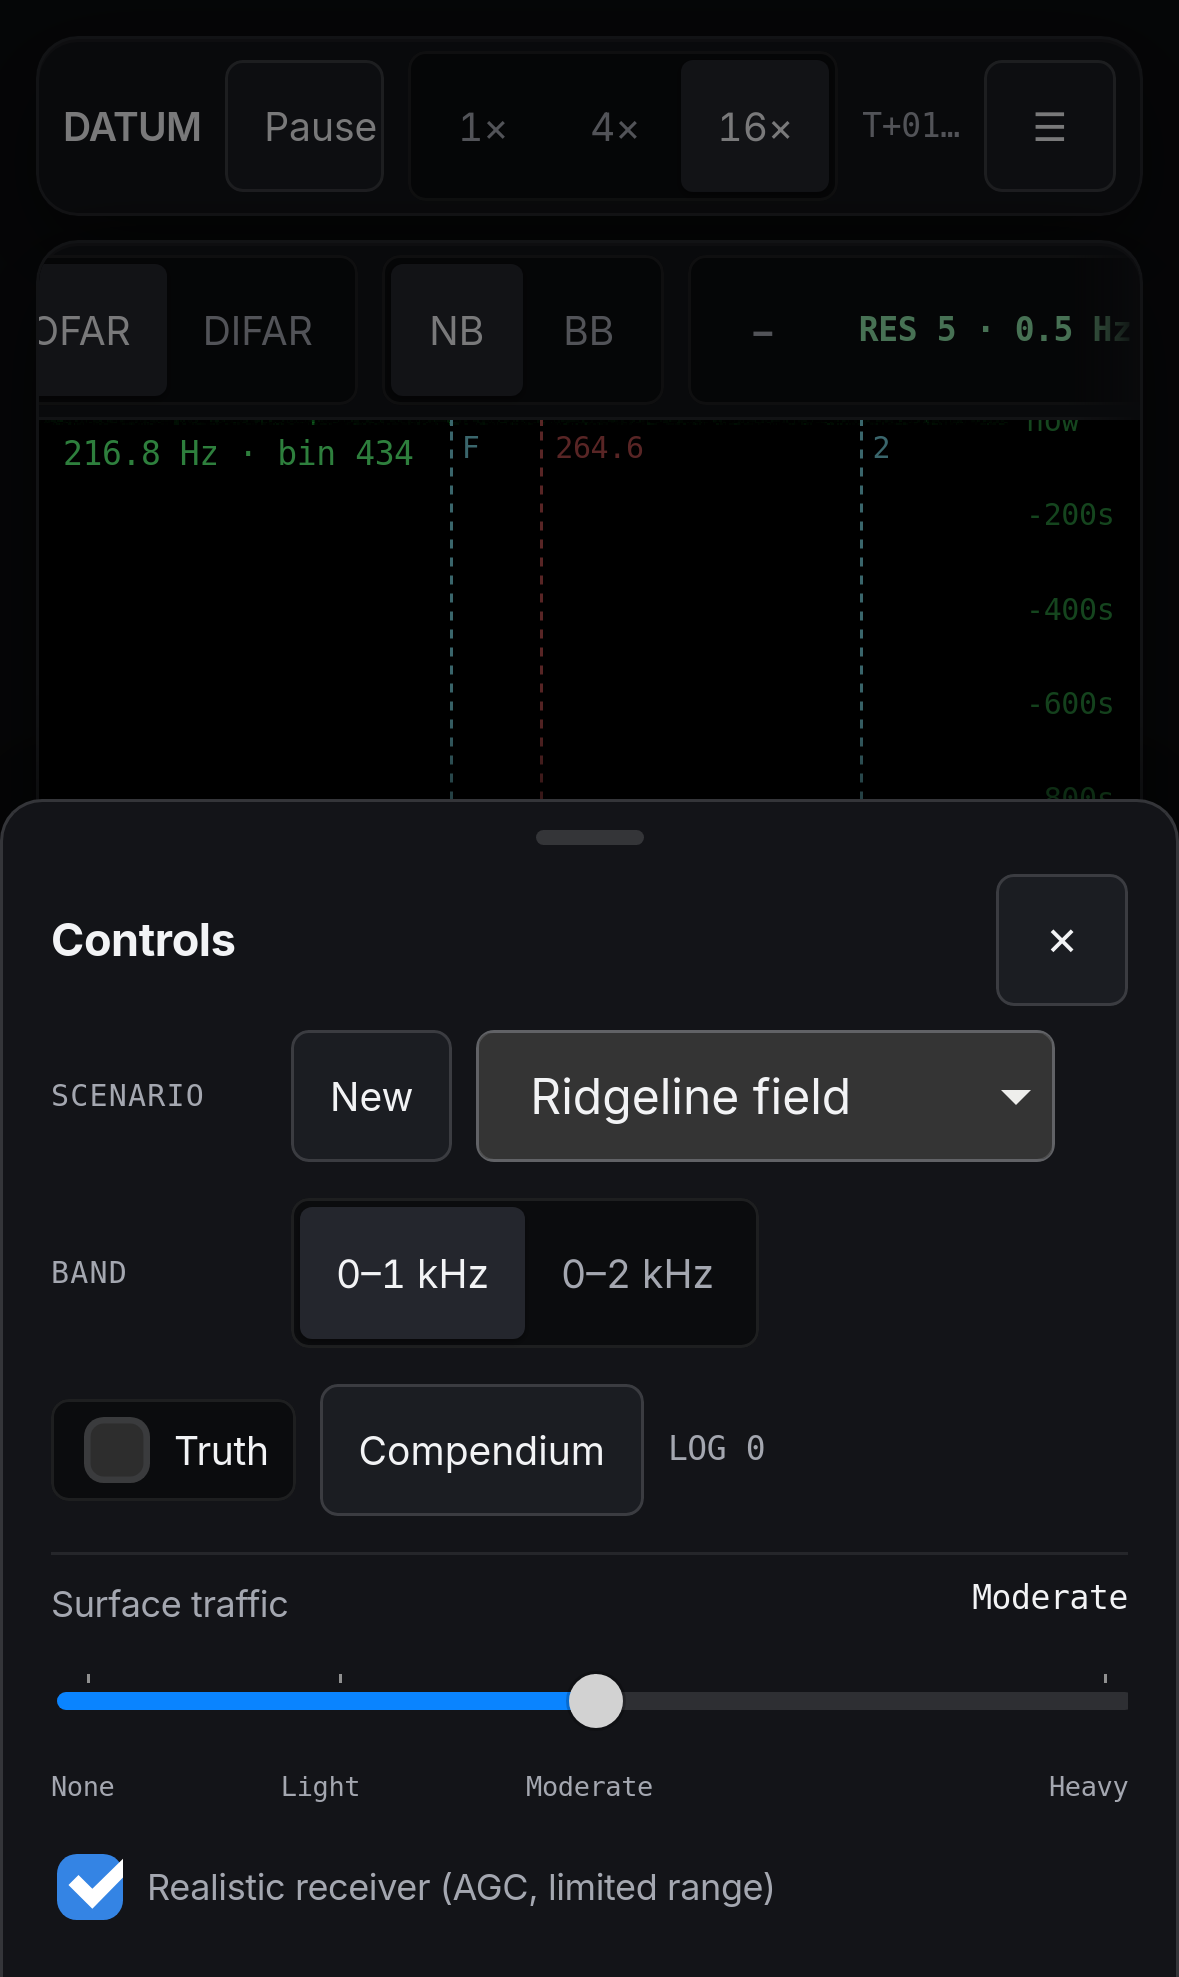
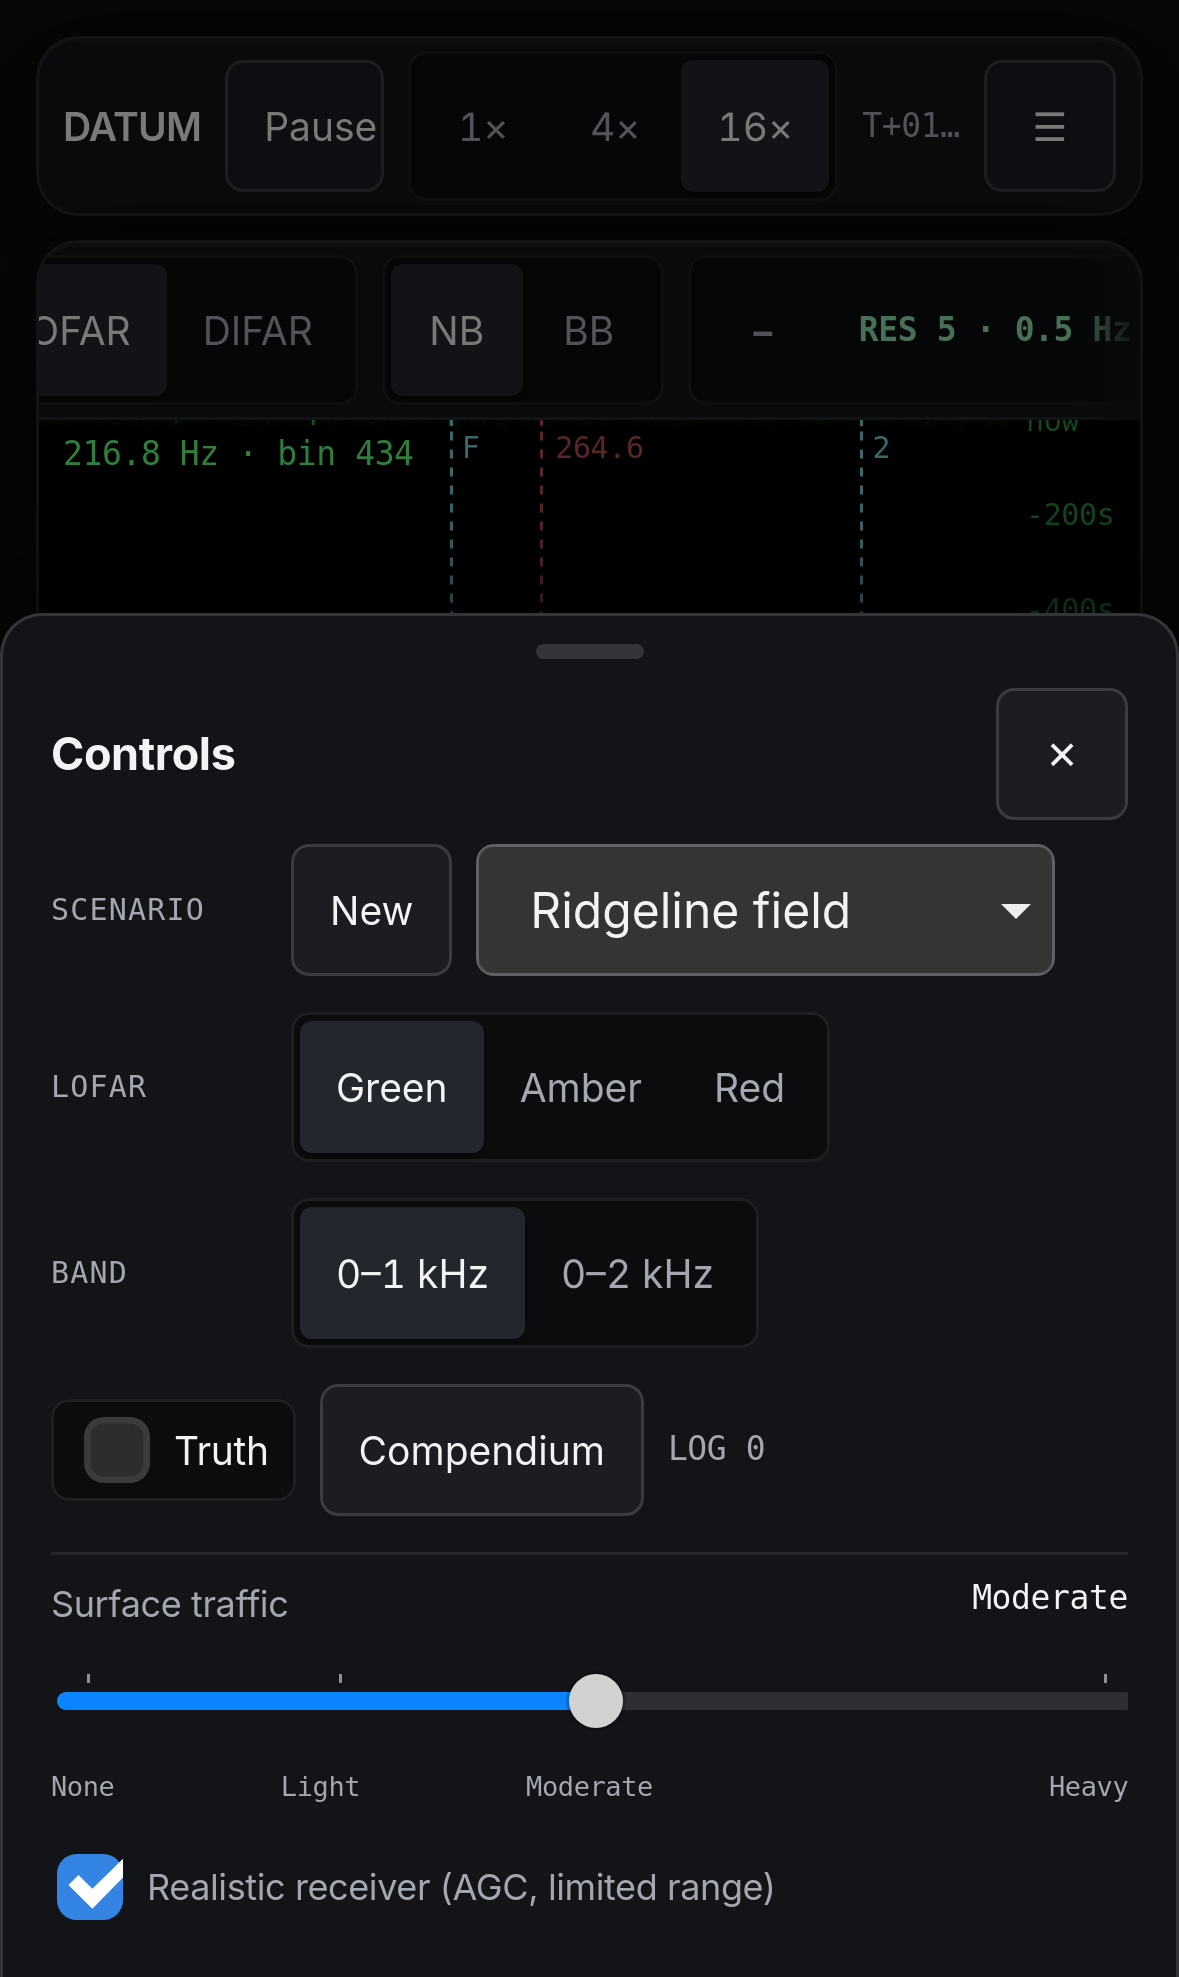
LOFAR palette: Green (default) / Amber / Red, amplitude-only monochrome; Gray and Multi removed; picker in the sheet; DIFAR still on the bearing wheel

diff --git a/src/App.tsx b/src/App.tsx
@@ -22,7 +22,7 @@ import { SCENARIOS, SCENARIO_LABEL } from './scenarios/training'
 import { harmText, harmonicSeries, nearestHarmonic, ratioText } from './gram/harmonics'
 import { familyFundamentals, familyLabel, snapToFamily, truthEdaName } from './gram/truthFamilies'
 import { freqToX } from './gram/axis'
-import type { PaletteId } from './gl/colormap'
+import { PALETTE_IDS, isPaletteId, type PaletteId } from './gl/colormap'
 import { useLayout } from './touch/useLayout'
 import { Sheet } from './touch/Sheet'
 import { installAudioUnlock } from './touch/audioUnlock'
@@ -43,6 +43,10 @@ const loadGramMode = (): GramMode => { try { const v = localStorage.getItem(GRAM
 const BAND_MAX: Record<Band, number> = { lofar1k: 1000, lofar2k: 2000 }
 const fmtT = (s: number) => { const m = Math.floor(s / 60), r = Math.floor(s % 60); return `${String(m).padStart(2, '0')}:${String(r).padStart(2, '0')}` }
 
+const PALETTE_LABEL: Record<PaletteId, string> = { green: 'Green', amber: 'Amber', red: 'Red' }
+const PALETTE_KEY = 'datum.palette'
+const loadPalette = (): PaletteId => { try { const u = new URLSearchParams(location.search).get('palette'); if (isPaletteId(u)) return u; const v = localStorage.getItem(PALETTE_KEY); return isPaletteId(v) ? v : 'green' } catch { return 'green' } }
+
 export default function App() {
   const client = useMemo(() => new SimClient(), [])
   const st = useSyncExternalStore(client.subscribe, client.getStatus)
@@ -50,8 +54,9 @@ export default function App() {
   const [view, setView] = useState<FreqView>({ lo: 0, hi: 1000 })
   const [truth, setTruth] = useState(false)
   const [vernierPick, setVernierPick] = useState(false)
-  // LOFAR is green only (amplitude = green brightness, no hue coding). DIFAR uses the bearing wheel instead.
-  const palette: PaletteId = 'green'
+  // LOFAR phosphor: green (default), amber or red. Amplitude only, no hue coding. DIFAR ignores it (bearing wheel).
+  const [palette, setPalette] = useState<PaletteId>(loadPalette)
+  useEffect(() => { try { localStorage.setItem(PALETTE_KEY, palette) } catch { /* private mode */ } }, [palette])
   const [gramMode, setGramMode] = useState<GramMode>(loadGramMode)
   useEffect(() => { try { localStorage.setItem(GRAM_MODE_KEY, gramMode) } catch { /* private mode */ } }, [gramMode])
   const [allBearings, setAllBearings] = useState(false)
@@ -238,6 +243,9 @@ export default function App() {
             {!(SCENARIOS as readonly string[]).includes(st.scenarioId) && <option value="">Generated</option>}
             {SCENARIOS.map((id) => <option key={id} value={id}>{SCENARIO_LABEL[id]}</option>)}
           </select></div>
+          <div className="sheet-row"><span className="seg-label">LOFAR</span><div className="seg" role="group" aria-label="LOFAR palette" data-testid="palette-seg">
+            {PALETTE_IDS.map((id) => <button key={id} aria-pressed={palette === id} onClick={() => setPalette(id)} title={gramMode === 'difar' ? 'LOFAR colour (DIFAR uses the bearing wheel)' : `LOFAR amplitude in ${PALETTE_LABEL[id].toLowerCase()}`}>{PALETTE_LABEL[id]}</button>)}
+          </div></div>
           <div className="sheet-row"><span className="seg-label">BAND</span><div className="seg" role="group" aria-label="LOFAR band">
             <button aria-pressed={st.band === 'lofar1k'} onClick={() => changeBand('lofar1k')}>0–1 kHz</button>
             <button aria-pressed={st.band === 'lofar2k'} onClick={() => changeBand('lofar2k')}>0–2 kHz</button>
@@ -261,7 +269,7 @@ export default function App() {
           <div className="panel-head">
             <h2 data-testid="gram-title">{gramMode === 'difar' ? 'DIFAR' : 'LOFAR'} · {filter}</h2>
             <div className="seg" role="group" aria-label="Gram mode">
-              <button aria-pressed={gramMode === 'lofar'} onClick={() => setGramMode('lofar')} title="Amplitude as green brightness">LOFAR</button>
+              <button aria-pressed={gramMode === 'lofar'} onClick={() => setGramMode('lofar')} title={`Amplitude as ${PALETTE_LABEL[palette].toLowerCase()} brightness`}>LOFAR</button>
               <button aria-pressed={gramMode === 'difar'} onClick={() => setGramMode('difar')} title="Bearing as hue (N red, E yellow, S blue, W violet), intensity as brightness">DIFAR</button>
             </div>
             <div className="seg filter-seg" role="group" aria-label="Gram filter" data-testid="filter-seg">

diff --git a/src/gl/colormap.ts b/src/gl/colormap.ts
@@ -1,15 +1,13 @@
 type Stop = [t: number, r: number, g: number, b: number]
 
 /**
- * Gram palettes. green/amber/gray: single-hue operator phosphors, black to near-white.
- * multi: perceptual multicolour (stops sampled from matplotlib's viridis, CC0), dark purple to yellow.
+ * LOFAR palettes: single-hue operator phosphors, black to near-white. Amplitude only, no hue coding
+ * (DIFAR ignores these and uses the bearing wheel).
  */
 export const PALETTES = {
   green: [[0, 0, 0, 0], [0.25, 0, 40, 8], [0.55, 20, 150, 45], [0.8, 92, 255, 122], [1, 225, 255, 230]],
   amber: [[0, 0, 0, 0], [0.25, 45, 18, 0], [0.55, 170, 90, 5], [0.8, 255, 176, 40], [1, 255, 238, 200]],
-  gray: [[0, 0, 0, 0], [1, 245, 245, 245]],
-  multi: [[0, 68, 1, 84], [0.125, 71, 39, 119], [0.25, 62, 73, 137], [0.375, 49, 103, 141], [0.5, 37, 131, 142],
-    [0.625, 30, 157, 136], [0.75, 53, 183, 120], [0.875, 140, 209, 70], [1, 253, 231, 37]],
+  red: [[0, 0, 0, 0], [0.25, 48, 0, 2], [0.55, 165, 12, 12], [0.8, 255, 72, 56], [1, 255, 222, 210]],
 } satisfies Record<string, Stop[]>
 export type PaletteId = keyof typeof PALETTES
 export const PALETTE_IDS = Object.keys(PALETTES) as PaletteId[]

diff --git a/src/display.test.ts b/src/display.test.ts
@@ -128,6 +128,12 @@ describe('bearing selection', () => {
 
 import { PALETTE_IDS, isPaletteId, paletteLut } from './gl/colormap'
 describe('palettes', () => {
+  it('LOFAR offers green (default), amber and red only: monochrome amplitude, no multicolour or gray', () => {
+    expect(PALETTE_IDS).toEqual(['green', 'amber', 'red'])
+    expect(isPaletteId('multi')).toBe(false); expect(isPaletteId('gray')).toBe(false)
+    const r = paletteLut('red'), mid = 128 * 4
+    expect(r[mid]).toBeGreaterThan(r[mid + 1] * 3) // red-dominant through the mid range
+  })
   it('every palette is 256 opaque entries, dark at the floor and bright at the top', () => {
     const lum = (l: Uint8Array, i: number) => 0.2126 * l[i * 4] + 0.7152 * l[i * 4 + 1] + 0.0722 * l[i * 4 + 2]
     for (const id of PALETTE_IDS) {
